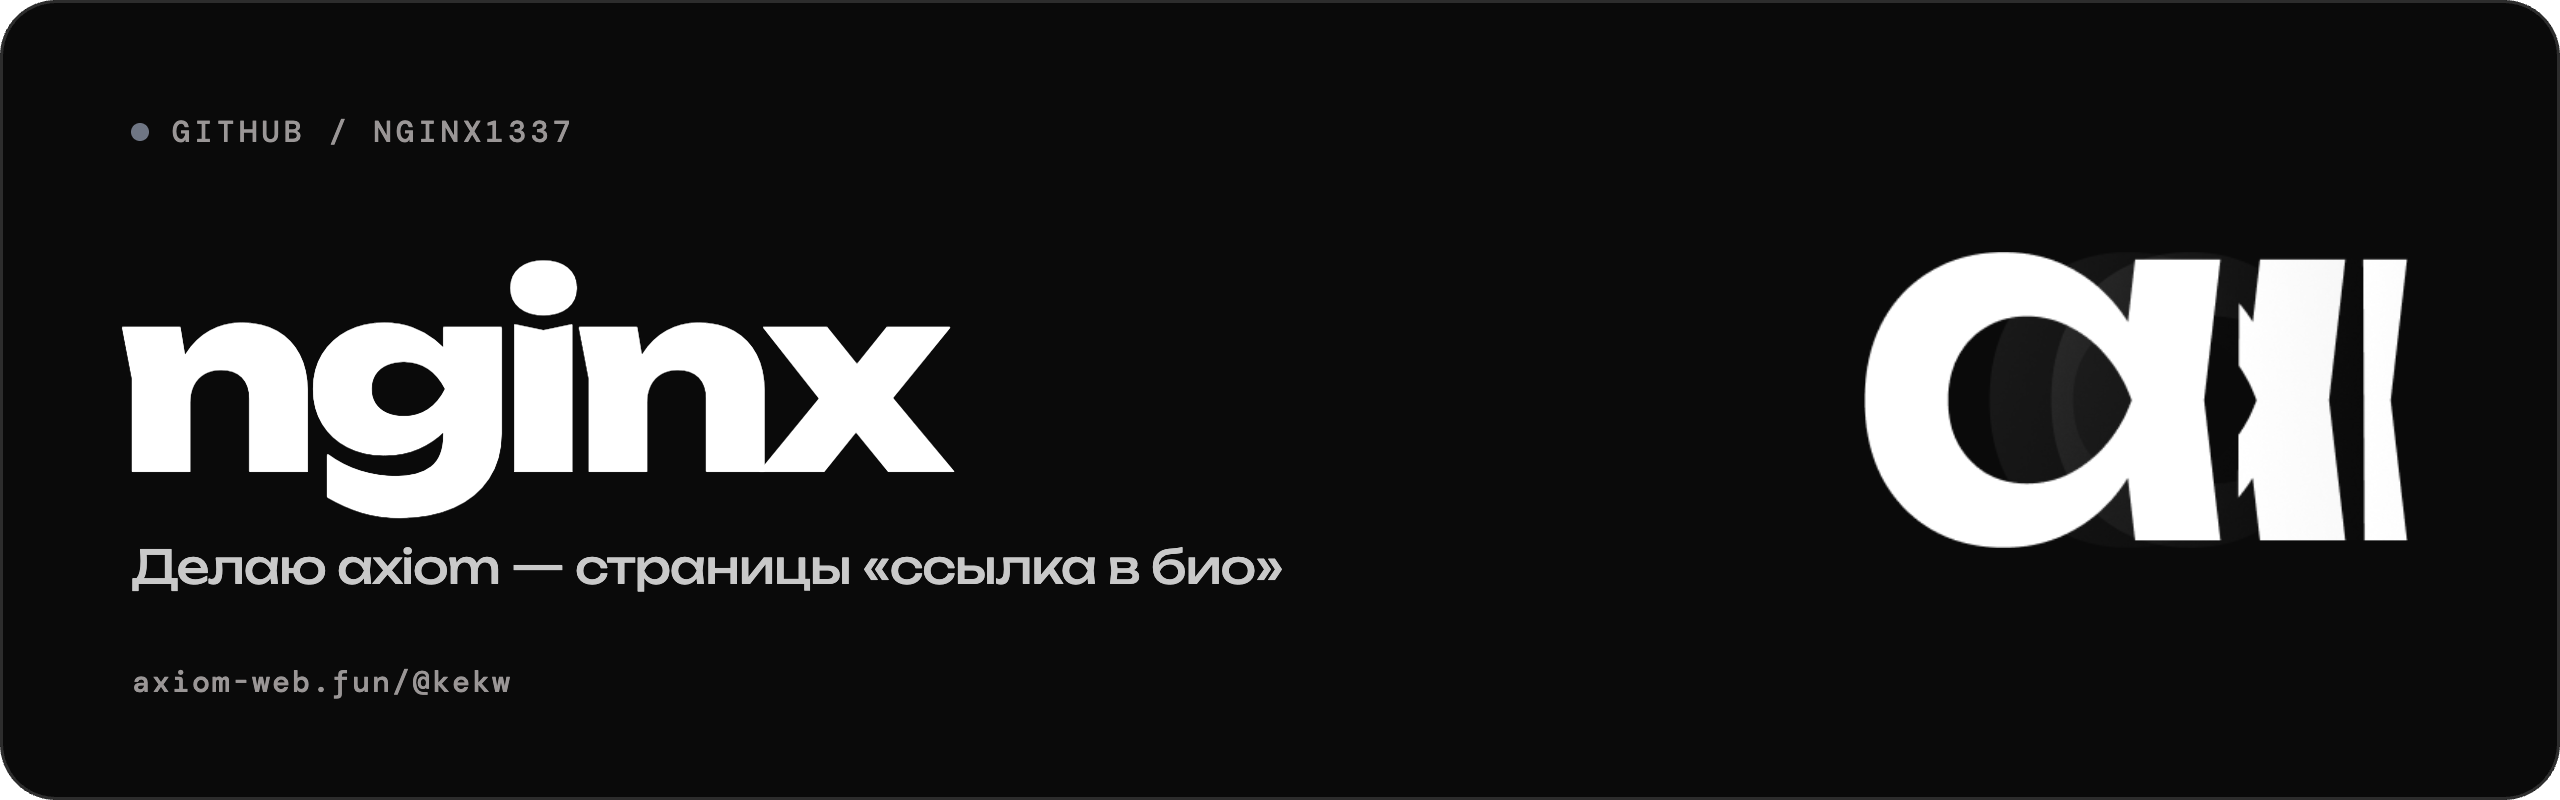
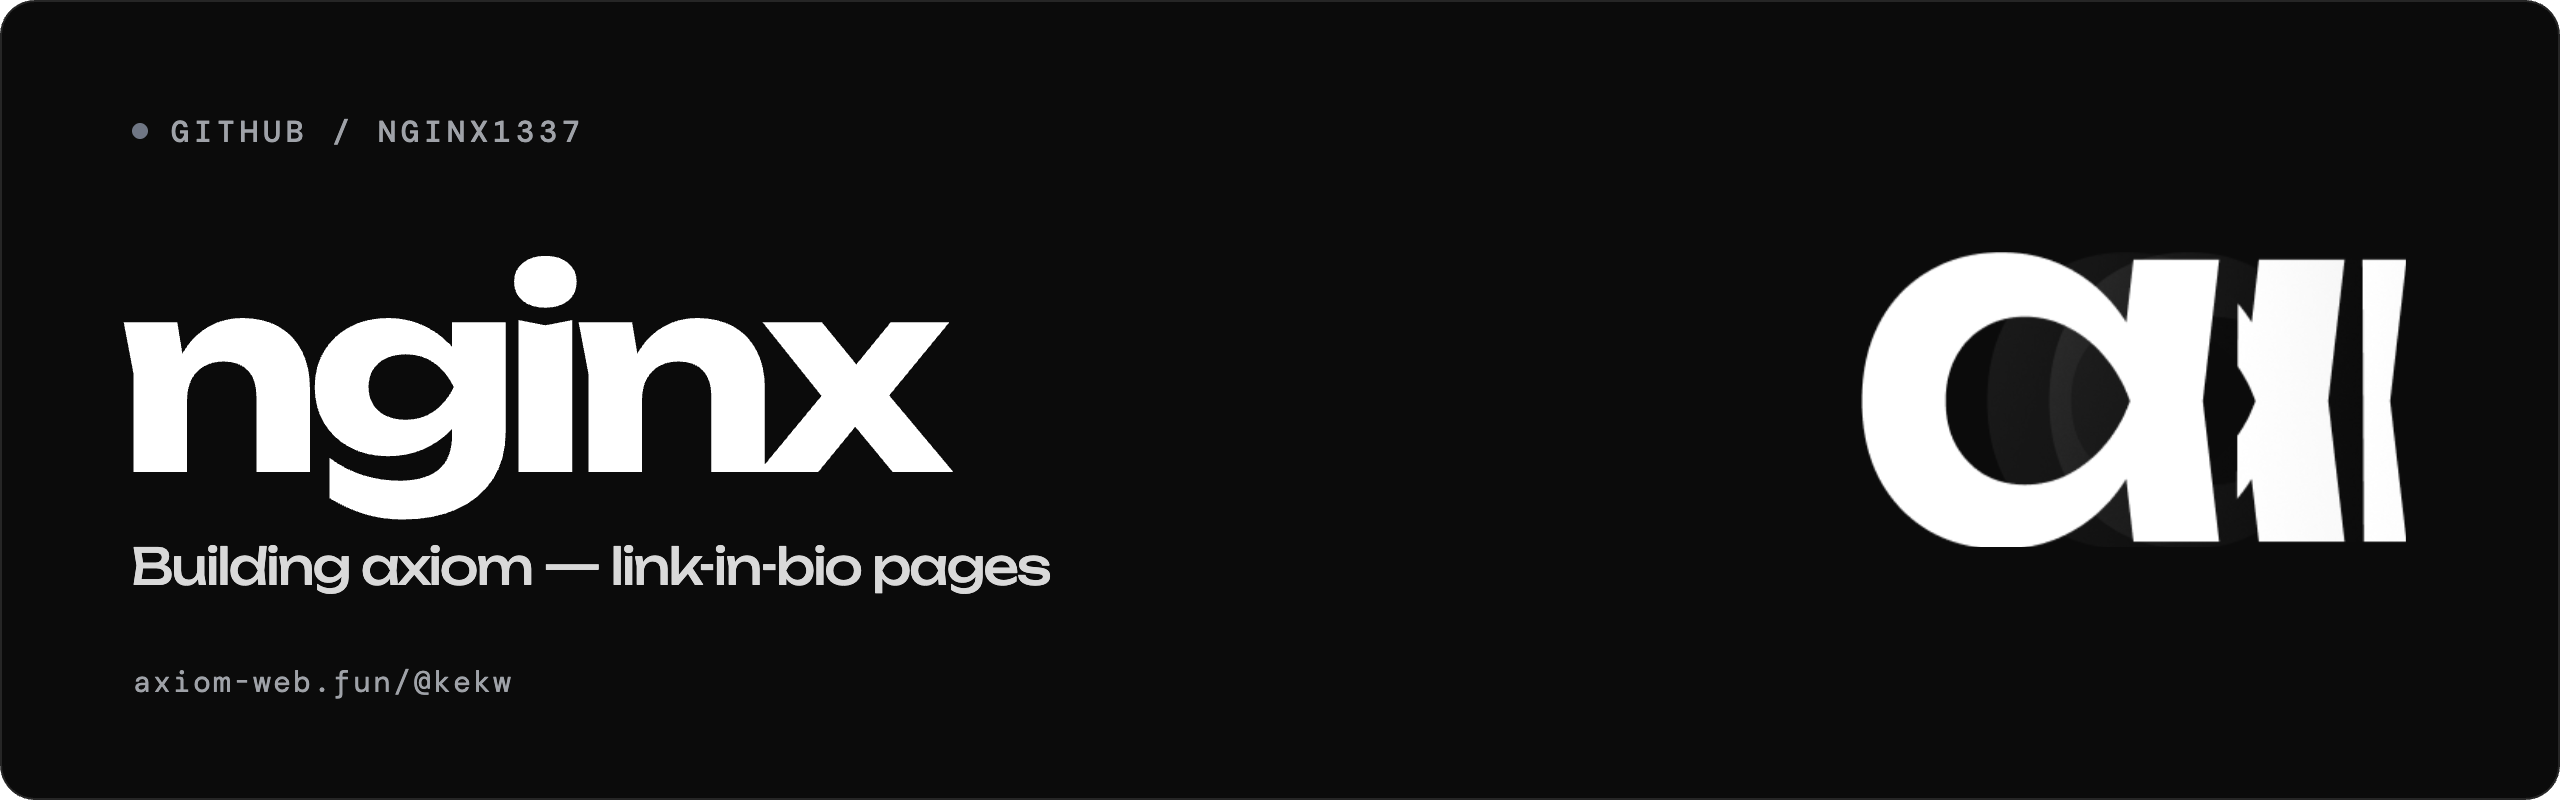
Add files via upload

diff --git a/README.md b/README.md
@@ -1,32 +1,61 @@
 <picture>
   <source media="(prefers-color-scheme: dark)" srcset="banner-dark.png">
-  <img src="banner-light.png" alt="nginx — делаю axiom, страницы «ссылка в био»" width="100%">
+  <img src="banner-light.png" alt="nginx — building axiom, link-in-bio pages" width="100%">
 </picture>
 
-<br>
+<p align="center">
+  <a href="https://axiom-web.fun">axiom-web.fun</a> &nbsp;·&nbsp;
+  <a href="https://axiom-web.fun/@kekw">my page</a> &nbsp;·&nbsp;
+  <a href="https://t.me/axiomweb">project channel</a> &nbsp;·&nbsp;
+  <a href="#на-русском">на русском</a>
+</p>
 
-## Про меня
+## About me
+
+I'm nginx — a vibe coder who designs in Figma and ships the result.
+I come up with interfaces and build them end to end. Right now I'm building my own product, **axiom**, on my own.
+
+**Stack**
+
+`Figma` &nbsp; `Nuxt 4` &nbsp; `Vue 3` &nbsp; `TypeScript` &nbsp; `SQLite` &nbsp; `nginx` &nbsp; `Linux`
+
+**Contact** — Telegram [@opnginx](https://t.me/opnginx)
+
+## Project: axiom
+
+**[axiom](https://axiom-web.fun)** is a link-in-bio service. One link in your profile, and behind it everything you do — socials, music, video, work and contacts — styled your way instead of from a template.
+
+- **Editor** — four layouts, backgrounds, fonts, music player, video, gallery
+- **Effects** — page entrance, custom cursors, cursor trail, click sounds
+- **Stats** — views, clicks and sources, with no cookies and no visitor tracking
+- **QR posters** of your page for stories and print
+- **Telegram bot** — sign-in alerts, weekly stats, support
+- Access is **invite-only** for now
+
+News — [t.me/axiomweb](https://t.me/axiomweb)
+
+---
+
+## На русском
+
+### Про меня
 
 Я nginx. Вайбкодер, работаю в Figma.
+Придумываю интерфейсы и собираю их от начала до конца. Сейчас в одиночку делаю свой сервис — **axiom**.
 
-Придумываю и собираю интерфейсы, один делаю свой сервис — axiom.
+**Чем пользуюсь** — `Figma` · `Nuxt 4` · `Vue 3` · `TypeScript` · `SQLite` · `nginx` · `Linux`
 
-**Чем пользуюсь**
+**Связь** — Telegram [@opnginx](https://t.me/opnginx)
 
-`Figma` &nbsp; `Nuxt 4` &nbsp; `Vue 3` &nbsp; `TypeScript` &nbsp; `SQLite` &nbsp; `nginx`
-
-**Связь**
-
-- Telegram — [@opnginx](https://t.me/opnginx)
-- Моя страница — [axiom-web.fun/@kekw](https://axiom-web.fun/@kekw)
-
-## Проект: axiom
+### Проект: axiom
 
 **[axiom](https://axiom-web.fun)** — сервис страниц «ссылка в био». Одна ссылка в профиле, а за ней всё, что ты делаешь: соцсети, музыка, видео, работы и контакты — в оформлении под себя, а не по шаблону.
 
-- Редактор с шаблонами, музыкой и видео
-- Статистика страницы без cookie и без слежки за посетителями
-- Постеры с QR-кодом страницы для сторис и печати
-- Доступ пока по приглашениям
+- **Редактор** — четыре шаблона, фон, шрифты, плеер, видео, галерея
+- **Эффекты** — появление страницы, свои курсоры, след за курсором, звук нажатия
+- **Статистика** — просмотры, клики и источники без cookie и без слежки за посетителями
+- **Постеры** с QR-кодом страницы для сторис и печати
+- **Telegram-бот** — оповещения о входе, сводка за неделю, поддержка
+- Доступ пока **по приглашениям**
 
-Новости проекта — в канале [t.me/axiomweb](https://t.me/axiomweb)
+Новости проекта — [t.me/axiomweb](https://t.me/axiomweb)
